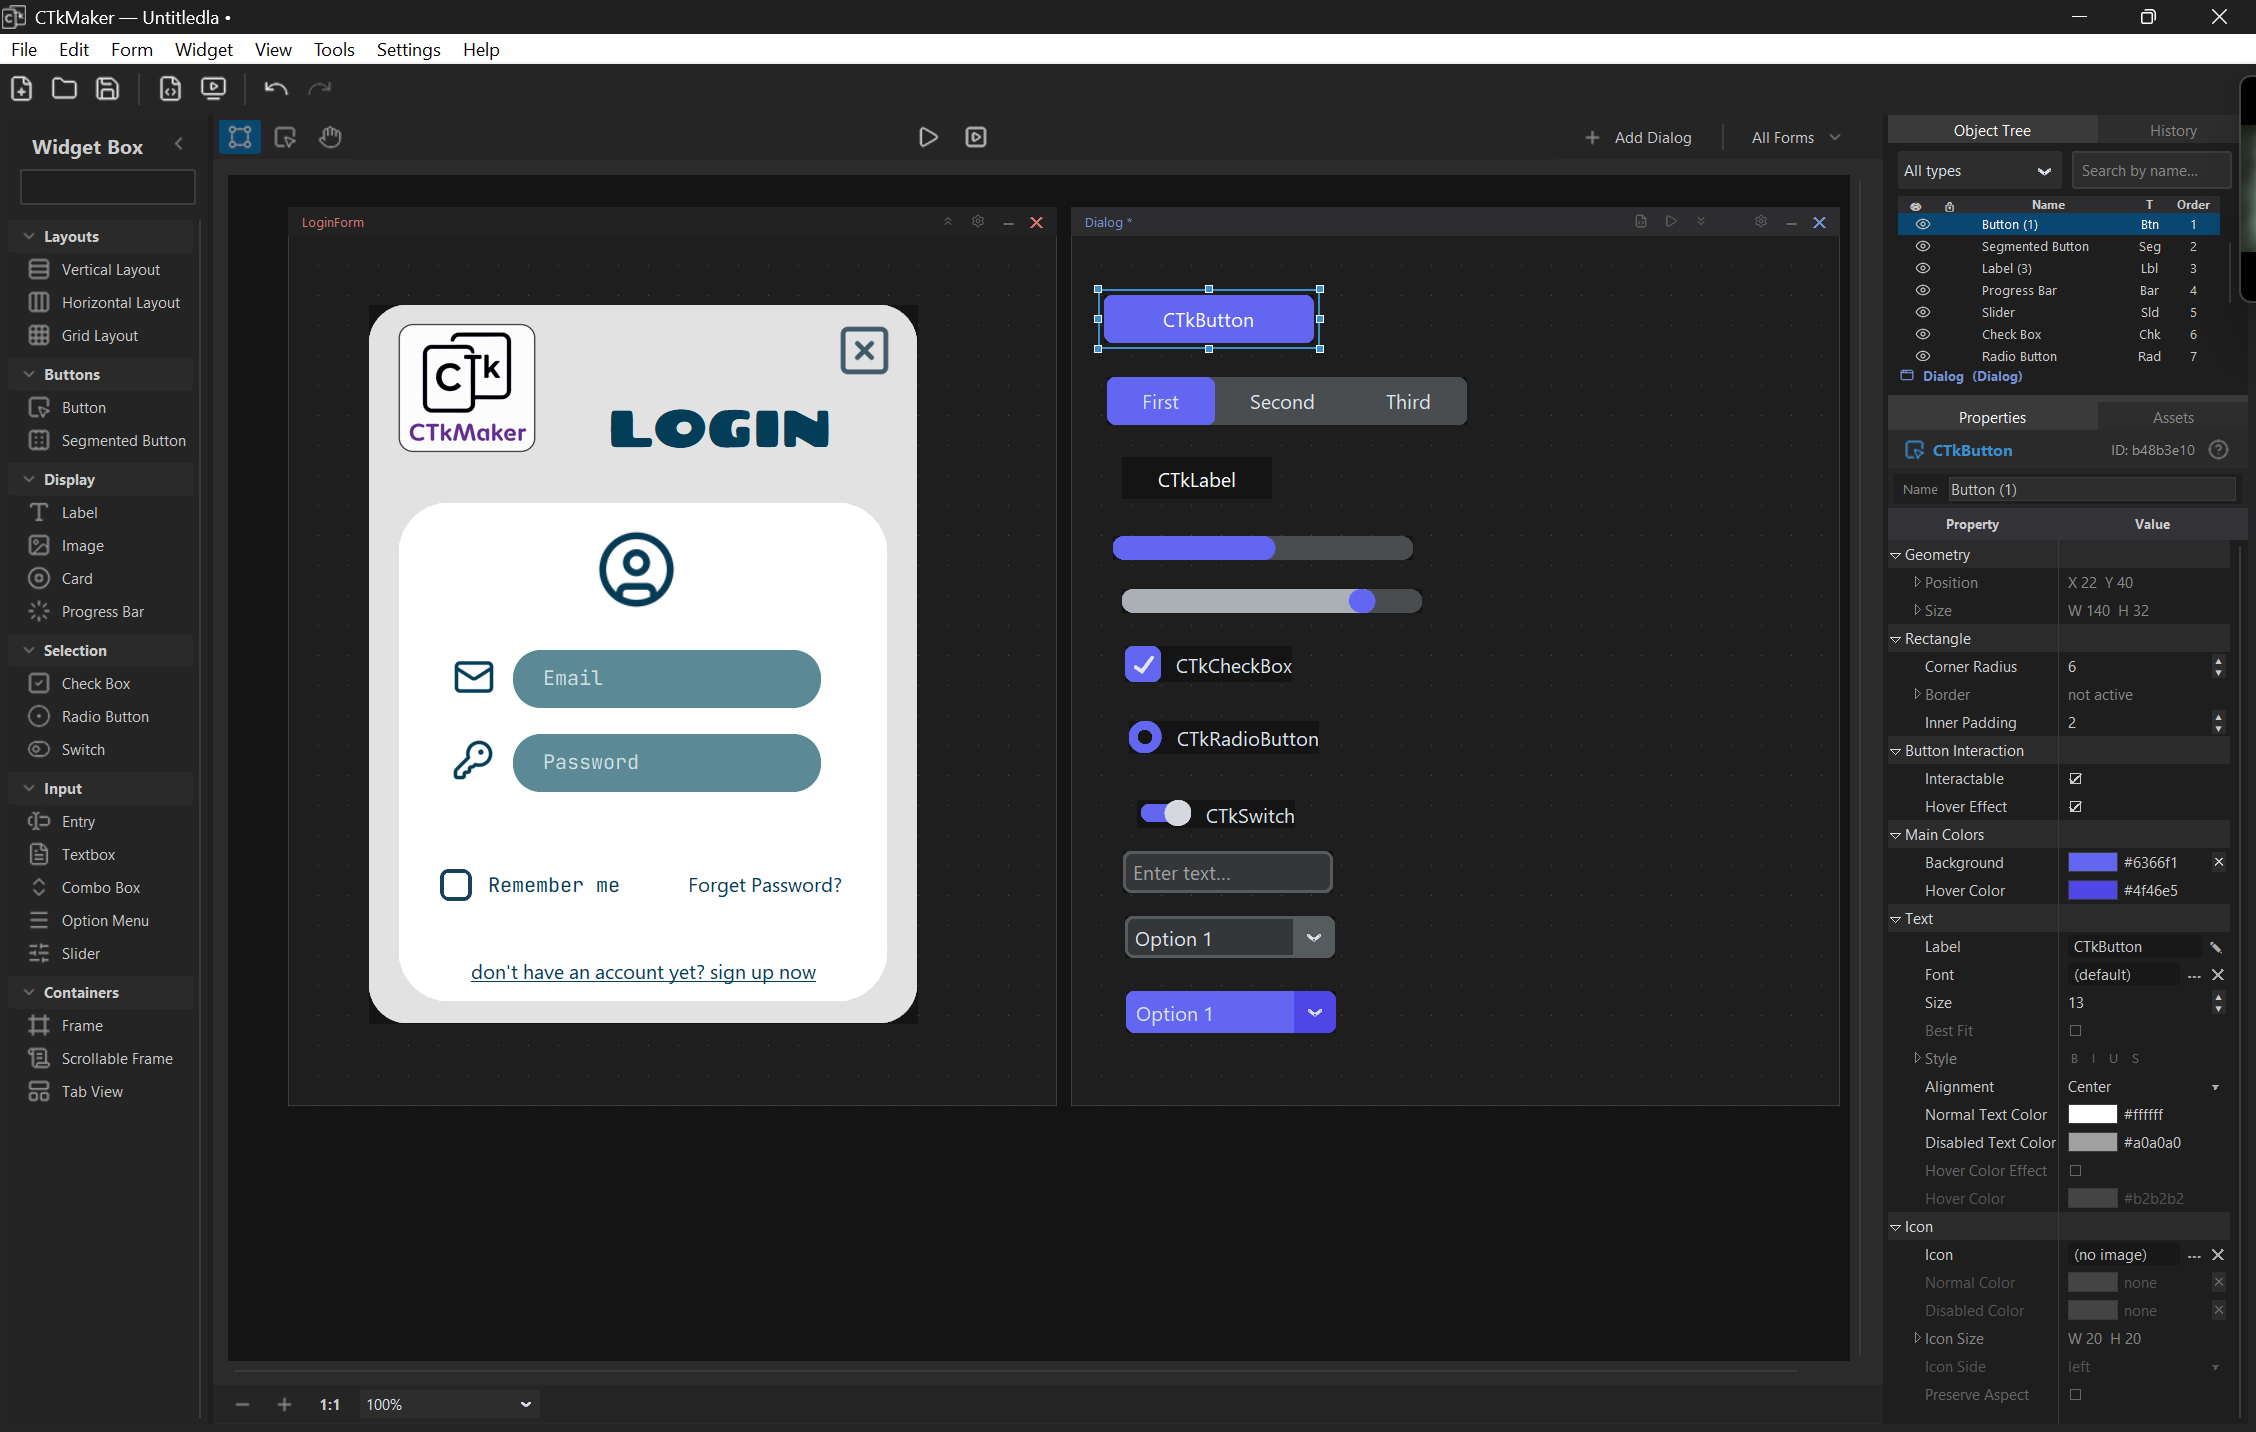
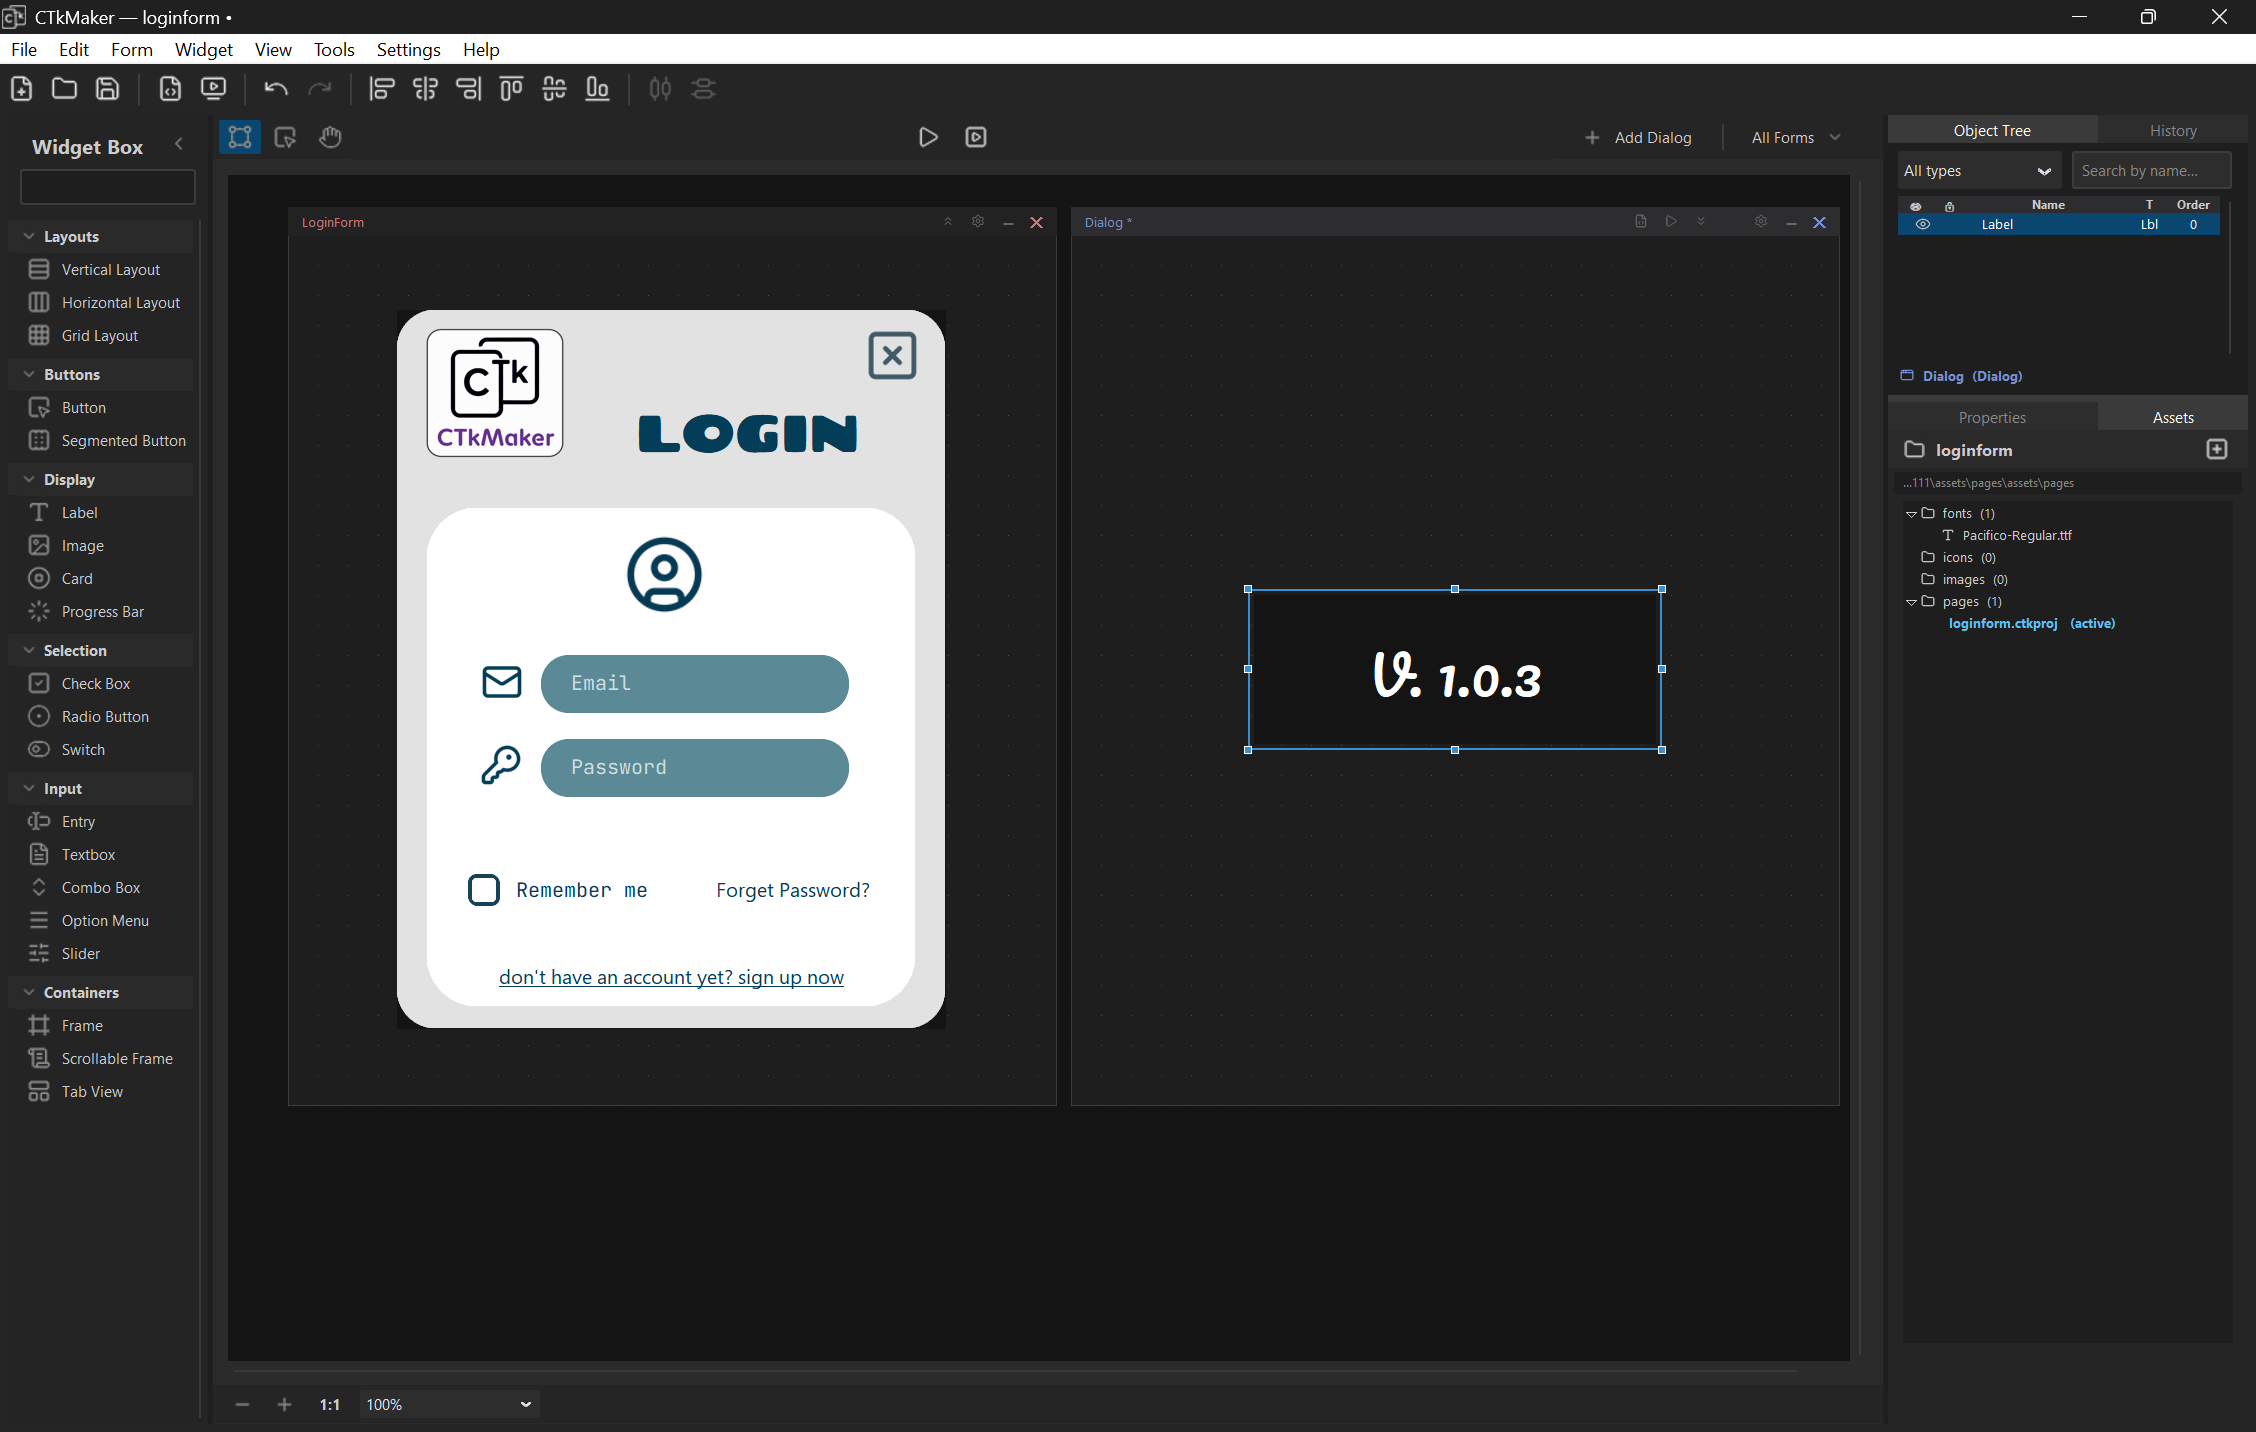
docs + UI: settle on Window terminology, refresh README
User-facing labels were drifting between Form / Window / Document
for the same Tk-window concept. Pick "Window" as the umbrella term
and convert the menubar + canvas chrome accordingly:

- Menubar "Form" cascade → "Window"
- "Form Settings" → "Window Settings"
- "All Forms" → "All Windows" (both menu cascade + canvas dropdown)
- File menu "Recent Forms" → "Recent Projects" (was misnamed —
  these are recent .ctkproj projects, not forms inside one)

Internal code (Document class, documents list, _form_menu var name)
left alone — refactor risk outweighs the consistency gain when
those names never reach the user.

README updates:
- New "Project structure" section explaining the four-level
  hierarchy (Project → Page → Window → Widget)
- Alignment & distribution feature bullet under "What it does"
- Hero canvas screenshot refreshed (v1.0.3)
- Drop "Alignment tools" from "What's next" (shipped)

diff --git a/app/ui/main_menu.py b/app/ui/main_menu.py
@@ -147,7 +147,7 @@ class MenuMixin:
         )
 
         self._recent_menu = tk.Menu(file_menu, tearoff=0, **MENU_STYLE)
-        self._add_cascade(file_menu, "Recent Forms", self._recent_menu, icon="history")
+        self._add_cascade(file_menu, "Recent Projects", self._recent_menu, icon="history")
         self._rebuild_recent_menu()
 
         file_menu.add_separator()
@@ -250,7 +250,7 @@ class MenuMixin:
         form_menu.add_separator()
         self._add_cmd(form_menu, "Rename", self._on_rename_current_doc,
                       icon="pencil", accelerator="Ctrl+I")
-        self._add_cmd(form_menu, "Form Settings", self._on_form_settings,
+        self._add_cmd(form_menu, "Window Settings", self._on_form_settings,
                       icon="settings")
         form_menu.add_separator()
         self._add_cmd(form_menu, "Move Up", self._on_move_doc_up,
@@ -263,8 +263,8 @@ class MenuMixin:
             postcommand=self._rebuild_windows_menu,
             **MENU_STYLE,
         )
-        form_menu.add_cascade(label="All Forms", menu=self._windows_menu)
-        menubar.add_cascade(label="Form", menu=form_menu)
+        form_menu.add_cascade(label="All Windows", menu=self._windows_menu)
+        menubar.add_cascade(label="Window", menu=form_menu)
 
         # ---- Widget ----
         widget_menu = tk.Menu(menubar, tearoff=0, **MENU_STYLE)

diff --git a/app/ui/workspace/controls.py b/app/ui/workspace/controls.py
@@ -204,7 +204,7 @@ class WorkspaceControls:
 
         chevron_icon = load_icon("chevron-down", size=12)
         forms_btn = ctk.CTkButton(
-            bar, text="All Forms",
+            bar, text="All Windows",
             image=chevron_icon, compound="right",
             width=100, height=24, corner_radius=3,
             fg_color="transparent", hover_color=TOOL_BTN_HOVER,

diff --git a/README.md b/README.md
@@ -8,13 +8,23 @@ Drag-and-drop visual designer for **CustomTkinter** — design Python GUIs witho
 
 [![CTkMaker canvas](docs/screenshots/canvas.png)](docs/screenshots/canvas.png)
 
+## Project structure
+
+A CTkMaker project is organised in four levels:
+
+- **Project** — a folder containing one or more page files plus a shared asset pool
+- **Page** — a single `.ctkproj` design (Login, Dashboard, Settings, ...) — pages share the project's fonts / images / icons
+- **Window** — a Tk window inside a page; either the **Main Window** (one per page) or a **Dialog Window** (zero or more)
+- **Widget** — buttons, labels, frames, etc. nested inside a window
+
 ## What it does
 
-- **Visual canvas** — real CTk widgets on a zoomable workspace. What you see is what you get. Multi-document: main window + dialogs in one project.
+- **Visual canvas** — real CTk widgets on a zoomable workspace. What you see is what you get. Multiple windows (main + dialogs) live on the same canvas in one page.
 - **Widgets — 20 in the palette:** Button, Segmented Button, Label, Image, Card, Progress Bar, Check Box, Radio Button, Switch, Entry, Textbox, Combo Box, Option Menu, Slider, Frame, Scrollable Frame, Tab View, Vertical Layout, Horizontal Layout, Grid Layout. Richer property editing than raw CTk: drag-scrub numbers, paired font family + size, multiline overlays, segmented value editor, scrollable dropdown for ComboBox / OptionMenu, color swatches with eyedropper. Open **Tools → Inspect CTk Widget** to see every property side-by-side — native CTk parameters vs builder-added helpers.
-- **Layout managers** — `place`, `vbox`, `hbox`, `grid` rendered with the actual Tk pack/grid managers. Drop into cells, drag to reparent, even across documents.
+- **Layout managers** — `place`, `vbox`, `hbox`, `grid` rendered with the actual Tk pack/grid managers. Drop into cells, drag to reparent, even across windows.
+- **Alignment & distribution** — toolbar buttons to align widgets (Left / Center / Right + Top / Middle / Bottom) and distribute them evenly. Auto-detects intent: a single widget aligns to its container, multiple widgets align to each other.
 - **Asset system** — fonts, images, and 1700+ Lucide icons managed inside the project folder. Tinted PNGs, system-font auto-import, portable references.
-- **Clean code export** — one runnable Python file per project. Optional `.zip` bundle (Python code + assets) for sharing.
+- **Clean code export** — one runnable Python file per window. Optional `.zip` bundle (Python code + assets) for sharing. Per-page export ships only the assets that page actually references.
 
 ## Screenshots
 
@@ -47,7 +57,7 @@ Full docs live in the [Wiki](https://github.com/kandelucky/ctk_maker/wiki):
 
 ## What's next
 
-- Alignment tools, marquee selection, snap-to-guides
+- Marquee selection, snap-to-guides
 - Variables panel + event handlers
 - Custom user widgets + plugin system
 - Distribution: PyInstaller bundles, installers, auto-updater
